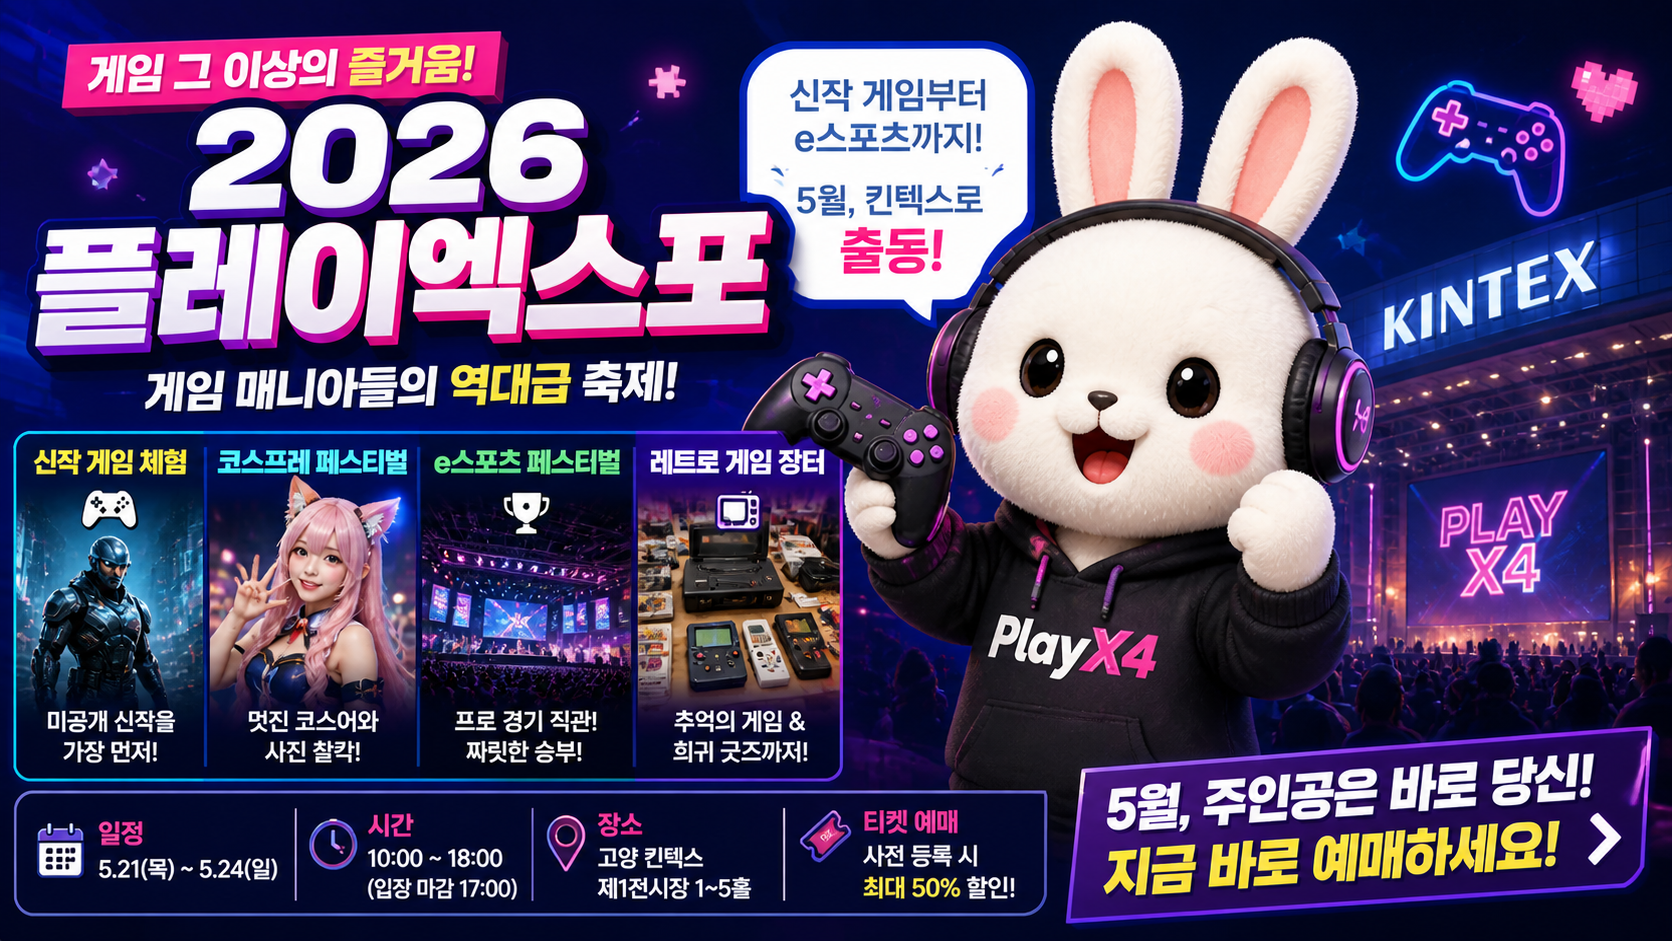
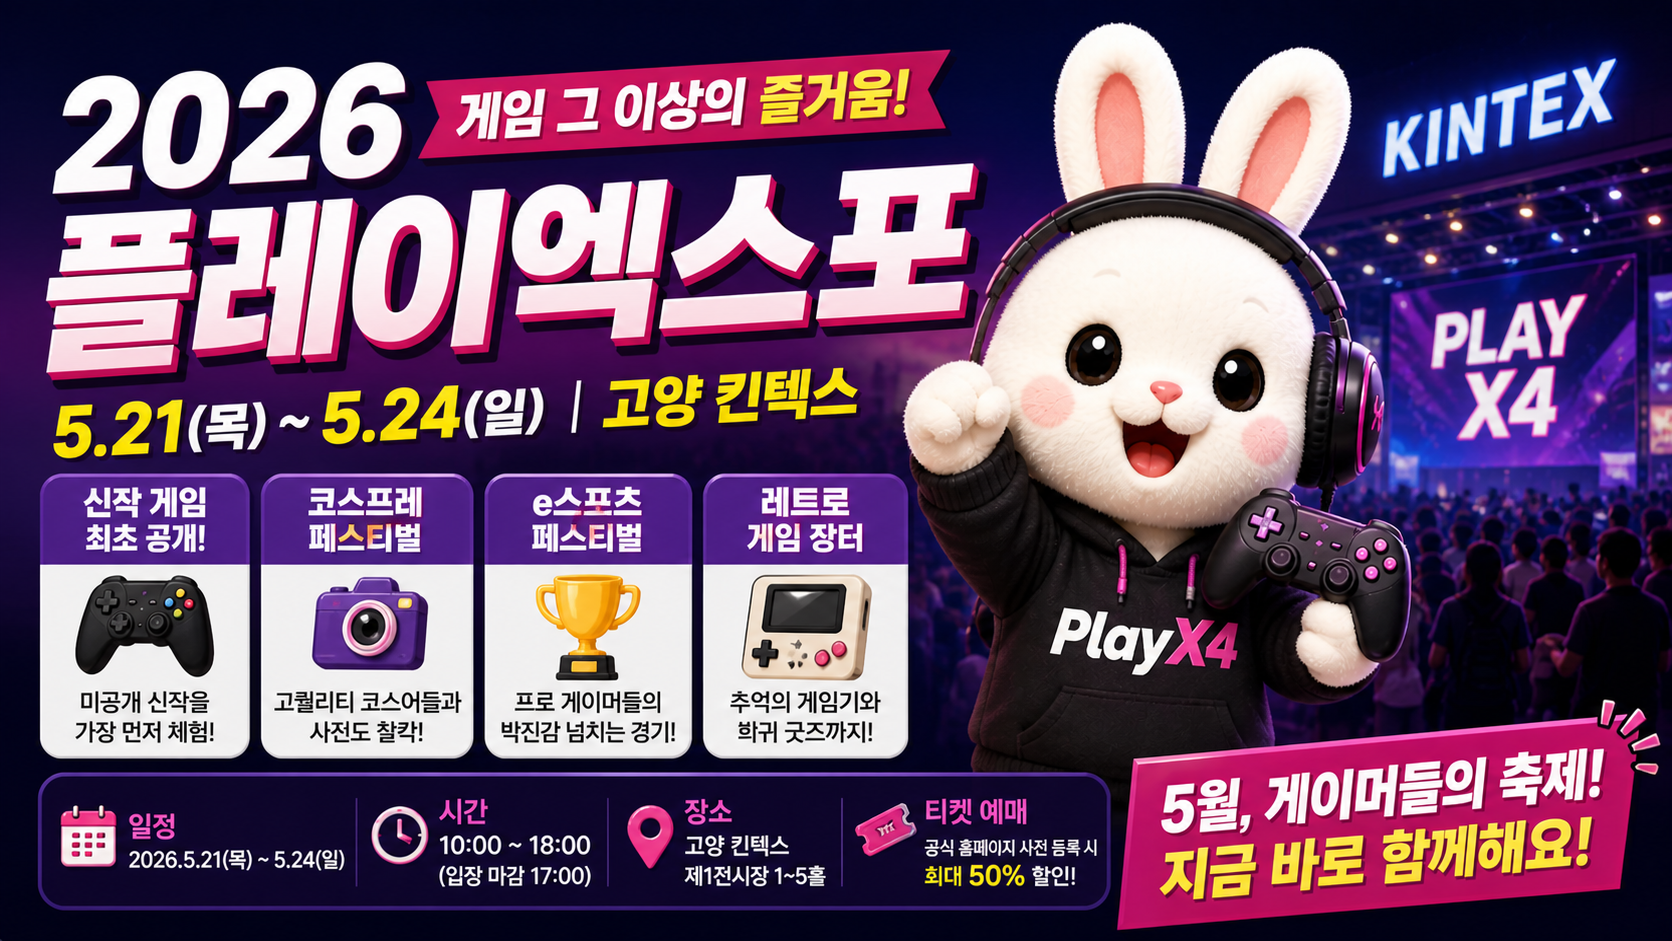
Fix: make blog filtering logic more robust to handle spaces and multiple category variants

diff --git a/src/app/DashboardClient.tsx b/src/app/DashboardClient.tsx
@@ -97,18 +97,19 @@ export default function DashboardClient({
   // 블로그 필터링 로직
   const getFilteredBlogPosts = () => {
     const catMap: Record<string, string[]> = {
-      "지원금": ["grant", "지원금"],
-      "행사": ["event", "행사", "지역행사"],
-      "생활정보": ["info", "생활정보"],
-      "도서정보": ["book", "도서정보"]
+      "지원금": ["grant", "지원금", "subsidy"],
+      "행사": ["event", "행사", "지역행사", "지역 행사"],
+      "생활정보": ["info", "생활정보", "life"],
+      "도서정보": ["book", "도서정보", "도서 소식", "도서"]
     };
 
     if (activeBlogCat === "전체") return blogPosts;
-    const targets = catMap[activeBlogCat] || [activeBlogCat];
-    return blogPosts.filter((post) => 
-      targets.includes(post.category) || 
-      targets.includes(post.category.toLowerCase())
-    );
+    const targets = (catMap[activeBlogCat] || [activeBlogCat]).map(t => t.toLowerCase().replace(/\s/g, ''));
+    
+    return blogPosts.filter((post) => {
+      const postCat = (post.category || "").toLowerCase().replace(/\s/g, '');
+      return targets.includes(postCat);
+    });
   };
 
   const filteredPosts = getFilteredBlogPosts();

diff --git a/src/content/posts/2026-asian-pop-fest.md b/src/content/posts/2026-asian-pop-fest.md
@@ -1,9 +1,9 @@
 ---
-title: "🎸 [아시안 팝 페스티벌 2026] 아시아 최고의 뮤지션들이 모인다! 영종도의 뜨거운 밤"
+title: "\U0001F3B8 [아시안 팝 페스티벌 2026] 아시아 최고의 뮤지션들이 모인다! 영종도의 뜨거운 밤"
 date: 2026-05-03T00:00:00.000Z
-summary: 2026년 5월 30일~31일! 파라다이스시티에서 펼쳐지는 아시아 최대 규모의 팝 페스티벌 🎤
+summary: "2026년 5월 30일~31일! 파라다이스시티에서 펼쳐지는 아시아 최대 규모의 팝 페스티벌 \U0001F3A4"
 category: 지역행사
-image: new_01.png
+image: dktldksvkq.png
 tags:
   - 아시안팝페스티벌
   - 아팝페2026

diff --git a/src/content/posts/2026-icheon-ceramic.md b/src/content/posts/2026-icheon-ceramic.md
@@ -1,9 +1,9 @@
 ---
-title: "🏺 [이천 도자기 축제] 천년의 숨결을 느끼다! 예스파크에서 즐기는 흙의 마법"
+title: "\U0001F3FA [이천 도자기 축제] 천년의 숨결을 느끼다! 예스파크에서 즐기는 흙의 마법"
 date: 2026-05-03T00:00:00.000Z
-summary: 2026년 5월 5일까지! 이천 예스파크에서 펼쳐지는 도자기 전시, 체험, 그리고 감성 가득한 마켓 🍵
+summary: "2026년 5월 5일까지! 이천 예스파크에서 펼쳐지는 도자기 전시, 체험, 그리고 감성 가득한 마켓 \U0001F375"
 category: 지역행사
-image: new_01.png
+image: dlcjseh.png
 tags:
   - 이천도자기축제
   - 예스파크

diff --git a/src/content/posts/2026-pogok-library.md b/src/content/posts/2026-pogok-library.md
@@ -1,9 +1,9 @@
 ---
-title: "📚 [용인 포곡도서관] 온 가족이 즐기는 '가정의 달' 독서 잔치! 작가 강연부터 원화 전시까지"
+title: "\U0001F4DA [용인 포곡도서관] 온 가족이 즐기는 '가정의 달' 독서 잔치! 작가 강연부터 원화 전시까지"
 date: 2026-05-03T00:00:00.000Z
-summary: 5월 한 달간! 포곡도서관에서 펼쳐지는 풍성한 문화 행사와 창의 체험 클래스 🎨
+summary: "5월 한 달간! 포곡도서관에서 펼쳐지는 풍성한 문화 행사와 창의 체험 클래스 \U0001F3A8"
 category: 도서정보
-image: new_01.png
+image: vhrhr_01.png
 tags:
   - 포곡도서관
   - 용인시도서관